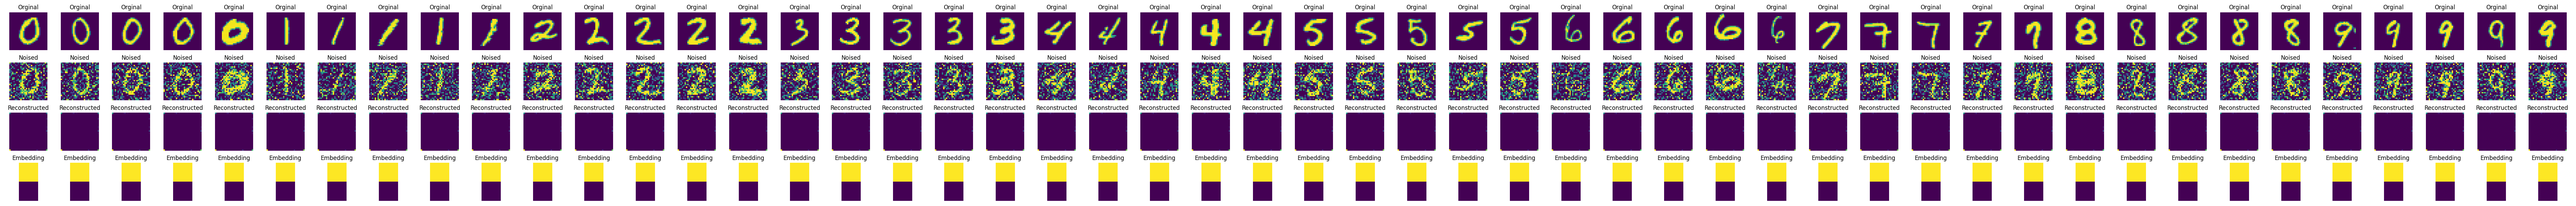
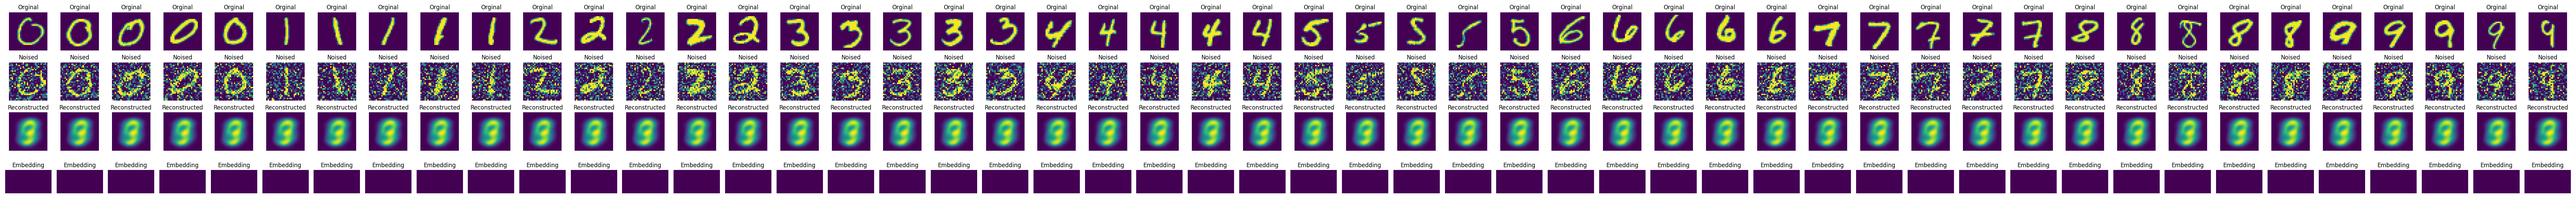
Fix tanh as last layer activation func (not sigmoid, image scaled from -1 to 1)

diff --git a/Homework 08/Training.py b/Homework 08/Training.py
@@ -6,21 +6,25 @@ from ConvolutionalAutoencoder.Autoencoder import *
 
 import matplotlib.pyplot as plt
 
+from sklearn import datasets
+from sklearn.manifold import TSNE
+
 def main():
 
     train_ds, test_ds = tfds.load('mnist', split=['train', 'test'], as_supervised=True)
 
     train_dataset = train_ds.apply(prepare_mnist_data)
     test_dataset = test_ds.apply(prepare_mnist_data)
-       
-    #train_dataset = train_dataset.take(10000)
+
+ 
+    #train_dataset = train_dataset.take(100)
     #test_dataset = test_dataset.take(1000)
 
     ### Hyperparameters
-    num_epochs = 20
+    num_epochs = 10
     learning_rate = 0.001
 
-    embedding_sizes = [1, 2, 3, 4, 5, 6, 7, 8, 9, 10]
+    embedding_sizes = [2,4,6,8,10]
     
     for embedding_size in embedding_sizes:
 
@@ -33,7 +37,7 @@ def main():
 
         model = Autoencoder(img, embedding_size)
     
-        # Initialize the loss: categorical cross entropy. Check out 'tf.keras.losses'.
+        # Initialize the loss:
         mse = tf.keras.losses.MeanSquaredError()
 
         # Initialize the optimizer: 
@@ -50,8 +54,11 @@ def main():
         #check how model performs on train data once before we begin
         train_loss  = model.test(train_dataset, mse)
         train_losses.append(train_loss)
-    
+
         model.summary()
+        model.encoder.summary()
+        model.decoder.summary()
+       
    
         # We train for num_epochs epochs.
         for epoch in range(num_epochs):
@@ -61,6 +68,9 @@ def main():
             epoch_loss_agg = []
             for input,target, _ in train_dataset: # ignore label
                 train_loss = model.train_step(input, target, mse, optimizer)
+
+                
+
                 epoch_loss_agg.append(train_loss)
 
             # track training loss
@@ -81,36 +91,40 @@ def main():
             if done:
                 break
         
-            noised_img, orginal_img, label = elem
-            denoised_img = model(noised_img)
+            noised_imgs, orginal_imgs, labels = elem
+            denoised_imgs = model(noised_imgs)
 
-            embedding = model.encoder(noised_img)
-            embedding = np.expand_dims(embedding, -1)
-            embedding = np.expand_dims(embedding, -1)
+            embeddings = model.encoder(noised_imgs)
+            embeddings = np.expand_dims(embeddings, -1)
+            #embeddings = np.expand_dims(embeddings, -1)
 
             for i in range(16): 
 
                 if done:
                     break 
 
-                a = orginal_img[i]
-                b = noised_img[i]
-                c = label.numpy()[i]
-                d = denoised_img[i]
-                f = embedding[i]
+                orginal_img = orginal_imgs[i]
+                noised_img = noised_imgs[i]
+                label = labels.numpy()[i]
+                denoised_img = denoised_imgs[i]
+                embedding = embeddings[i]
                 
+                height = embedding.shape[0]
+                height = int(height/2)
+                embedding = np.reshape(embedding, newshape=(height,2,1))
 
-                if c == digit:
-                    axs[0, total_cnt].imshow(a)
+
+                if label == digit:
+                    axs[0, total_cnt].imshow(orginal_img)
                     axs[0, total_cnt].set_title("Orginal")
 
-                    axs[1, total_cnt].imshow(b)
+                    axs[1, total_cnt].imshow(noised_img)
                     axs[1, total_cnt].set_title("Noised")
 
-                    axs[2, total_cnt].imshow(d)
+                    axs[2, total_cnt].imshow(denoised_img)
                     axs[2, total_cnt].set_title("Reconstructed")
 
-                    axs[3, total_cnt].imshow(f)
+                    axs[3, total_cnt].imshow(embedding)
                     axs[3, total_cnt].set_title("Embedding")
 
                     total_cnt+=1
@@ -136,6 +150,26 @@ def main():
 
         print("#############################")
 
+
+# tsne = TSNE(n_components=2, random_state=0)
+
+    # digits = datasets.load_digits()
+
+    
+    # X = digits.data[:500]
+    # y = digits.target[:500]
+
+    # X_2d = tsne.fit_transform(X)
+
+    # target_ids = range(len(digits.target_names))
+
+
+    # plt.figure(figsize=(6, 5))
+    # colors = 'r', 'g', 'b', 'c', 'm', 'y', 'k', 'w', 'orange', 'purple'
+    # for i, c, label in zip(target_ids, colors, digits.target_names):
+    #     plt.scatter(X_2d[y == i, 0], X_2d[y == i, 1], c=c, label=label)
+    # plt.legend()
+    # plt.show()
 
 def noisy(img):
 

diff --git a/Homework 08/ConvolutionalAutoencoder/Decoder.py b/Homework 08/ConvolutionalAutoencoder/Decoder.py
@@ -1,18 +1,19 @@
 import tensorflow as tf
 
-class Decoder(tf.keras.layers.Layer): # <-- Needed to make parameters trainable and to be callable
+class Decoder(tf.keras.Model): # <-- Needed to make parameters trainable and to be callable
     def __init__(self, shapeAfterLastConv, denseLayerSize):
 
         super(Decoder, self).__init__()
         self.layer_list = [
+            
+            tf.keras.layers.Dense(7*7*16),
 
-            tf.keras.layers.Dense(denseLayerSize, activation='relu'),
-            tf.keras.layers.Reshape(shapeAfterLastConv), 
+            tf.keras.layers.Reshape((7,7,16)), 
 
-            tf.keras.layers.Conv2DTranspose(4, kernel_size=(4,4), strides=2, padding='same', activation='relu'),
-       
+            tf.keras.layers.Conv2DTranspose(64, kernel_size=(3,3), strides=2, padding='same', activation='relu'),
+            tf.keras.layers.Conv2DTranspose(32, kernel_size=(3,3), strides=2, padding='same', activation='relu'),
 
-            tf.keras.layers.Conv2D(1, kernel_size=(3, 3), padding='same', activation='sigmoid')
+            tf.keras.layers.Conv2D(1, kernel_size=(3, 3), padding='same', activation='tanh')
         ]
     
     @tf.function

diff --git a/Homework 08/ConvolutionalAutoencoder/Autoencoder.py b/Homework 08/ConvolutionalAutoencoder/Autoencoder.py
@@ -25,25 +25,18 @@ class Autoencoder(tf.keras.Model):
         with tf.GradientTape() as tape:
             prediction = self(input)
             loss = loss_function(target, prediction)
-            gradients = tape.gradient(loss, self.trainable_variables)
+
+        gradients = tape.gradient(loss, self.trainable_variables)
         optimizer.apply_gradients(zip(gradients, self.trainable_variables))
         return loss
 
     def test(self, test_data, loss_function):
         # test over complete test data
-        
-
         test_loss_aggregator = []
-
-        for input, target, _ in test_data: # ignore label
-            
+        for input, target, _ in test_data: # ignore label            
             prediction = self(input)   
-        
             sample_test_loss = loss_function(target, prediction)
-
             test_loss_aggregator.append(sample_test_loss.numpy())
 
-
         test_loss = tf.reduce_mean(test_loss_aggregator)
-
         return test_loss

diff --git a/Homework 08/ConvolutionalAutoencoder/Encoder.py b/Homework 08/ConvolutionalAutoencoder/Encoder.py
@@ -1,14 +1,17 @@
 import tensorflow as tf
 
-class Encoder(tf.keras.layers.Layer): # <-- Needed to make parameters trainable and to be callable
+class Encoder(tf.keras.Model): # <-- Needed to make parameters trainable and to be callable
     def __init__(self, embedding_size):
         super(Encoder, self).__init__()
         self.layer_list = [
-            
-  
-            tf.keras.layers.Conv2D(4, kernel_size=(4, 4), strides=2, padding='same', activation='relu'),
-            
+                    
+            tf.keras.layers.Conv2D(32, kernel_size=(3, 3), strides=2, padding='same', activation='relu'),
+            tf.keras.layers.Conv2D(64, kernel_size=(3, 3), strides=2, padding='same', activation='relu'),
+        
             tf.keras.layers.Flatten(),
+
+            tf.keras.layers.Dense(7*7*16),
+
             tf.keras.layers.Dense(embedding_size, activation='relu')
         ]
     
